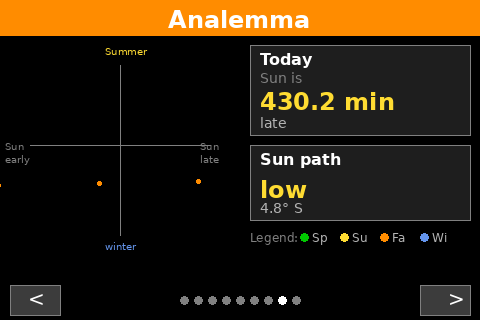
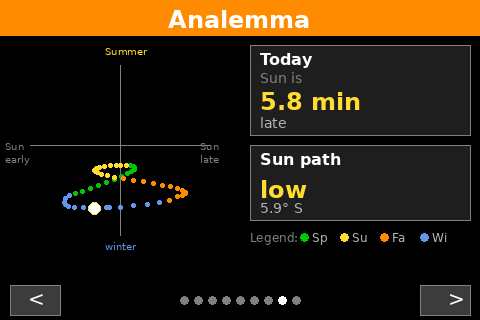
Fix analemma equation of time calculation
The formula was producing incorrect values (430 min instead of ±15 min).
Fixed by using sun transit time to calculate the equation of time.

🤖 Generated with [Claude Code](https://claude.com/claude-code)

diff --git a/solar_clock/data/lunar.py b/solar_clock/data/lunar.py
@@ -241,14 +241,27 @@ class LunarProvider:
             date = datetime.date.today()
 
         try:
-            # Calculate for solar noon
-            dt = datetime.datetime(date.year, date.month, date.day, 12, 0)
-            sun = ephem.Sun()
-            sun.compute(dt)
+            # Set up observer at prime meridian for standard calculation
+            observer = ephem.Observer()
+            observer.lat = '0'
+            observer.lon = '0'
+            observer.elevation = 0
+            observer.pressure = 0  # No atmospheric refraction
 
-            # Equation of time in hours, convert to minutes
-            eot = 12 - float(sun.ra) * 12 / ephem.pi
-            return eot * 60
+            # Set date to noon UTC
+            dt = datetime.datetime(date.year, date.month, date.day, 12, 0)
+            observer.date = dt
+
+            # Find when sun transits (crosses meridian)
+            sun = ephem.Sun()
+            transit = observer.next_transit(sun)
+
+            # Equation of time = 12:00 - transit time (in minutes)
+            # Positive = sun is early (ahead of clock), negative = sun is late
+            transit_dt = ephem.Date(transit).datetime()
+            eot_minutes = (12 * 60) - (transit_dt.hour * 60 + transit_dt.minute + transit_dt.second / 60)
+
+            return eot_minutes
 
         except (ValueError, AttributeError) as e:
             logger.warning(f"Failed to calculate equation of time: {e}")
